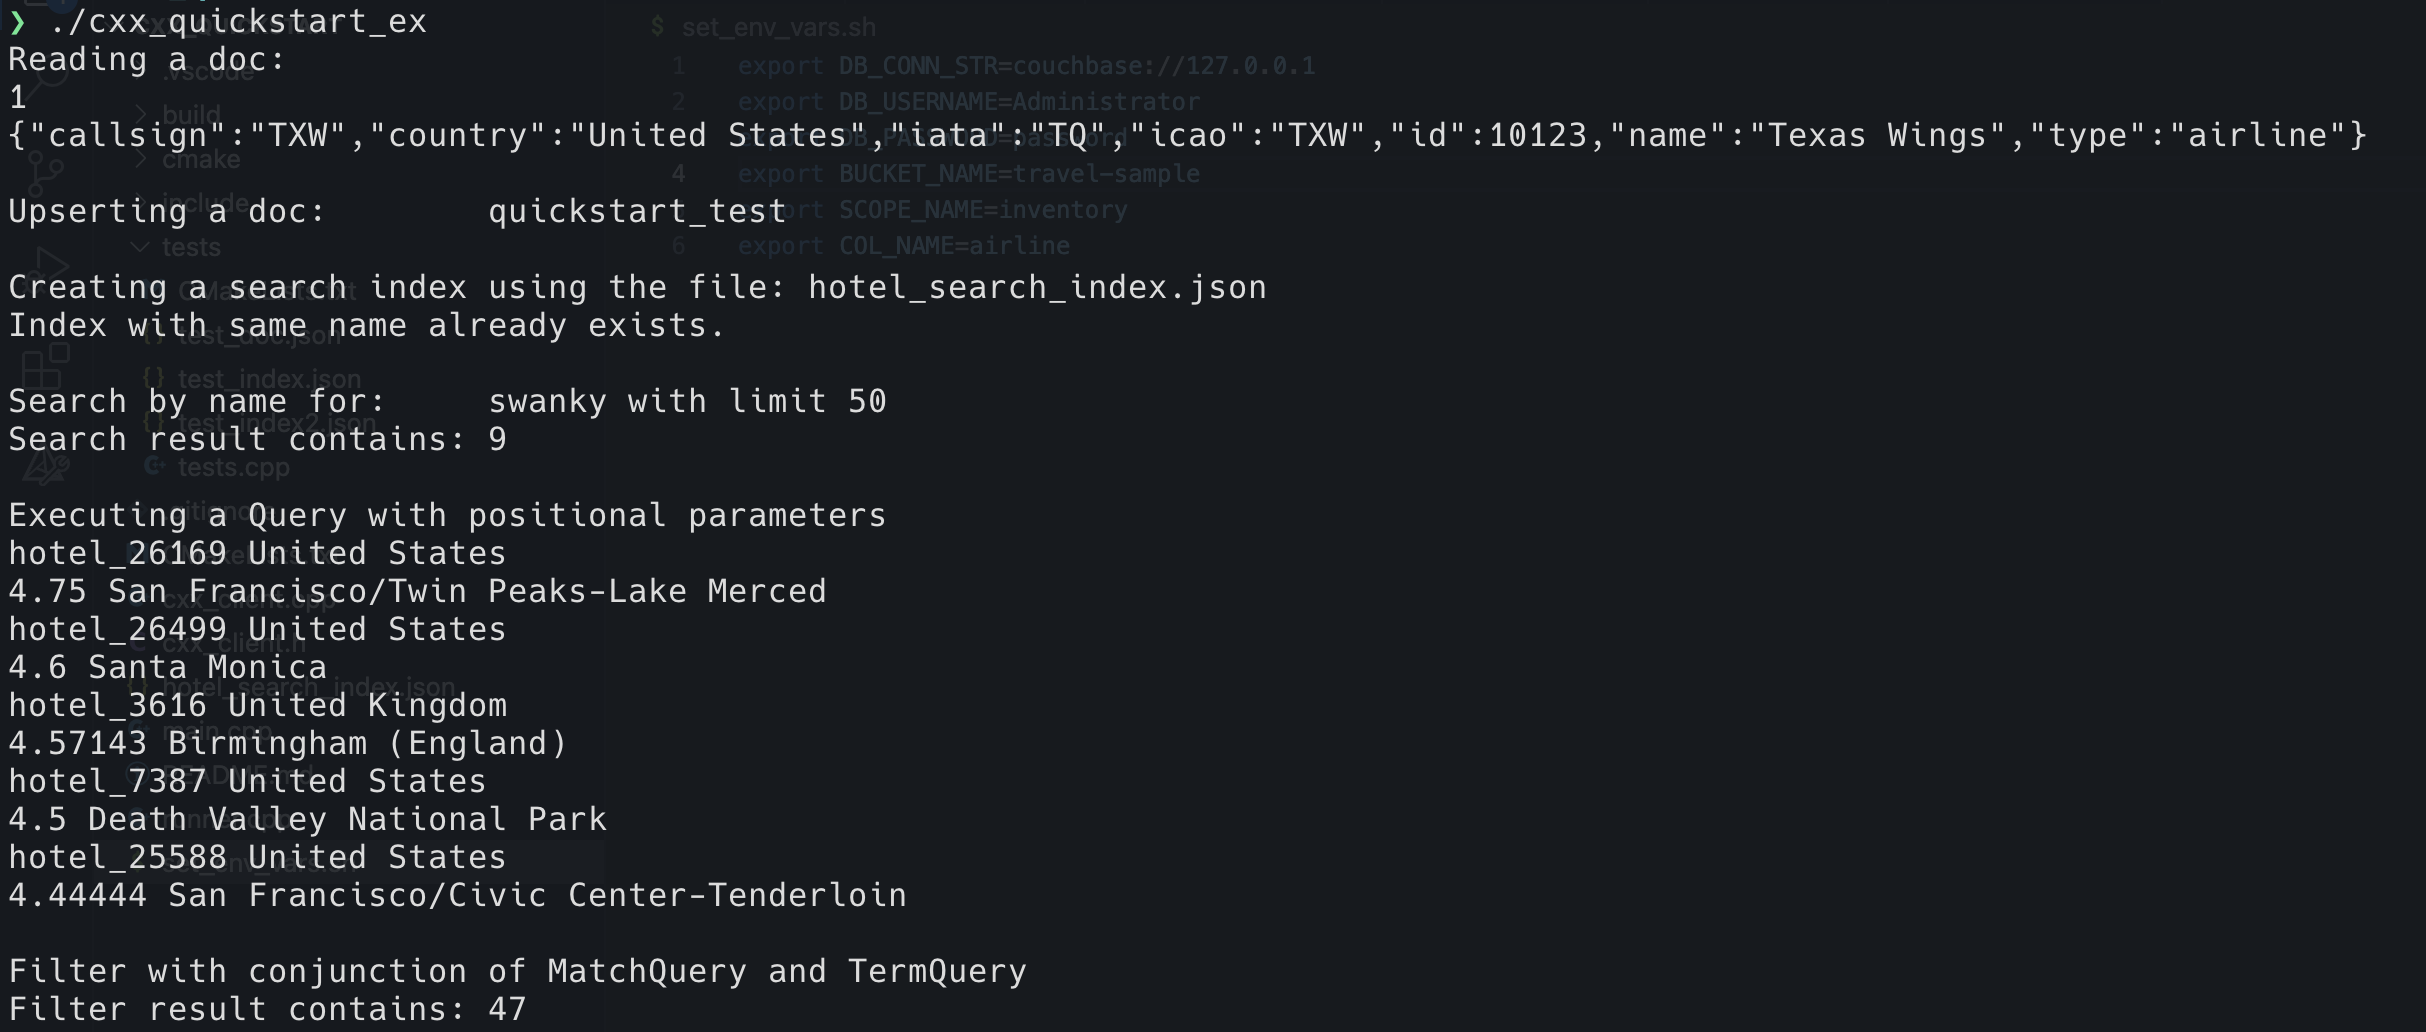
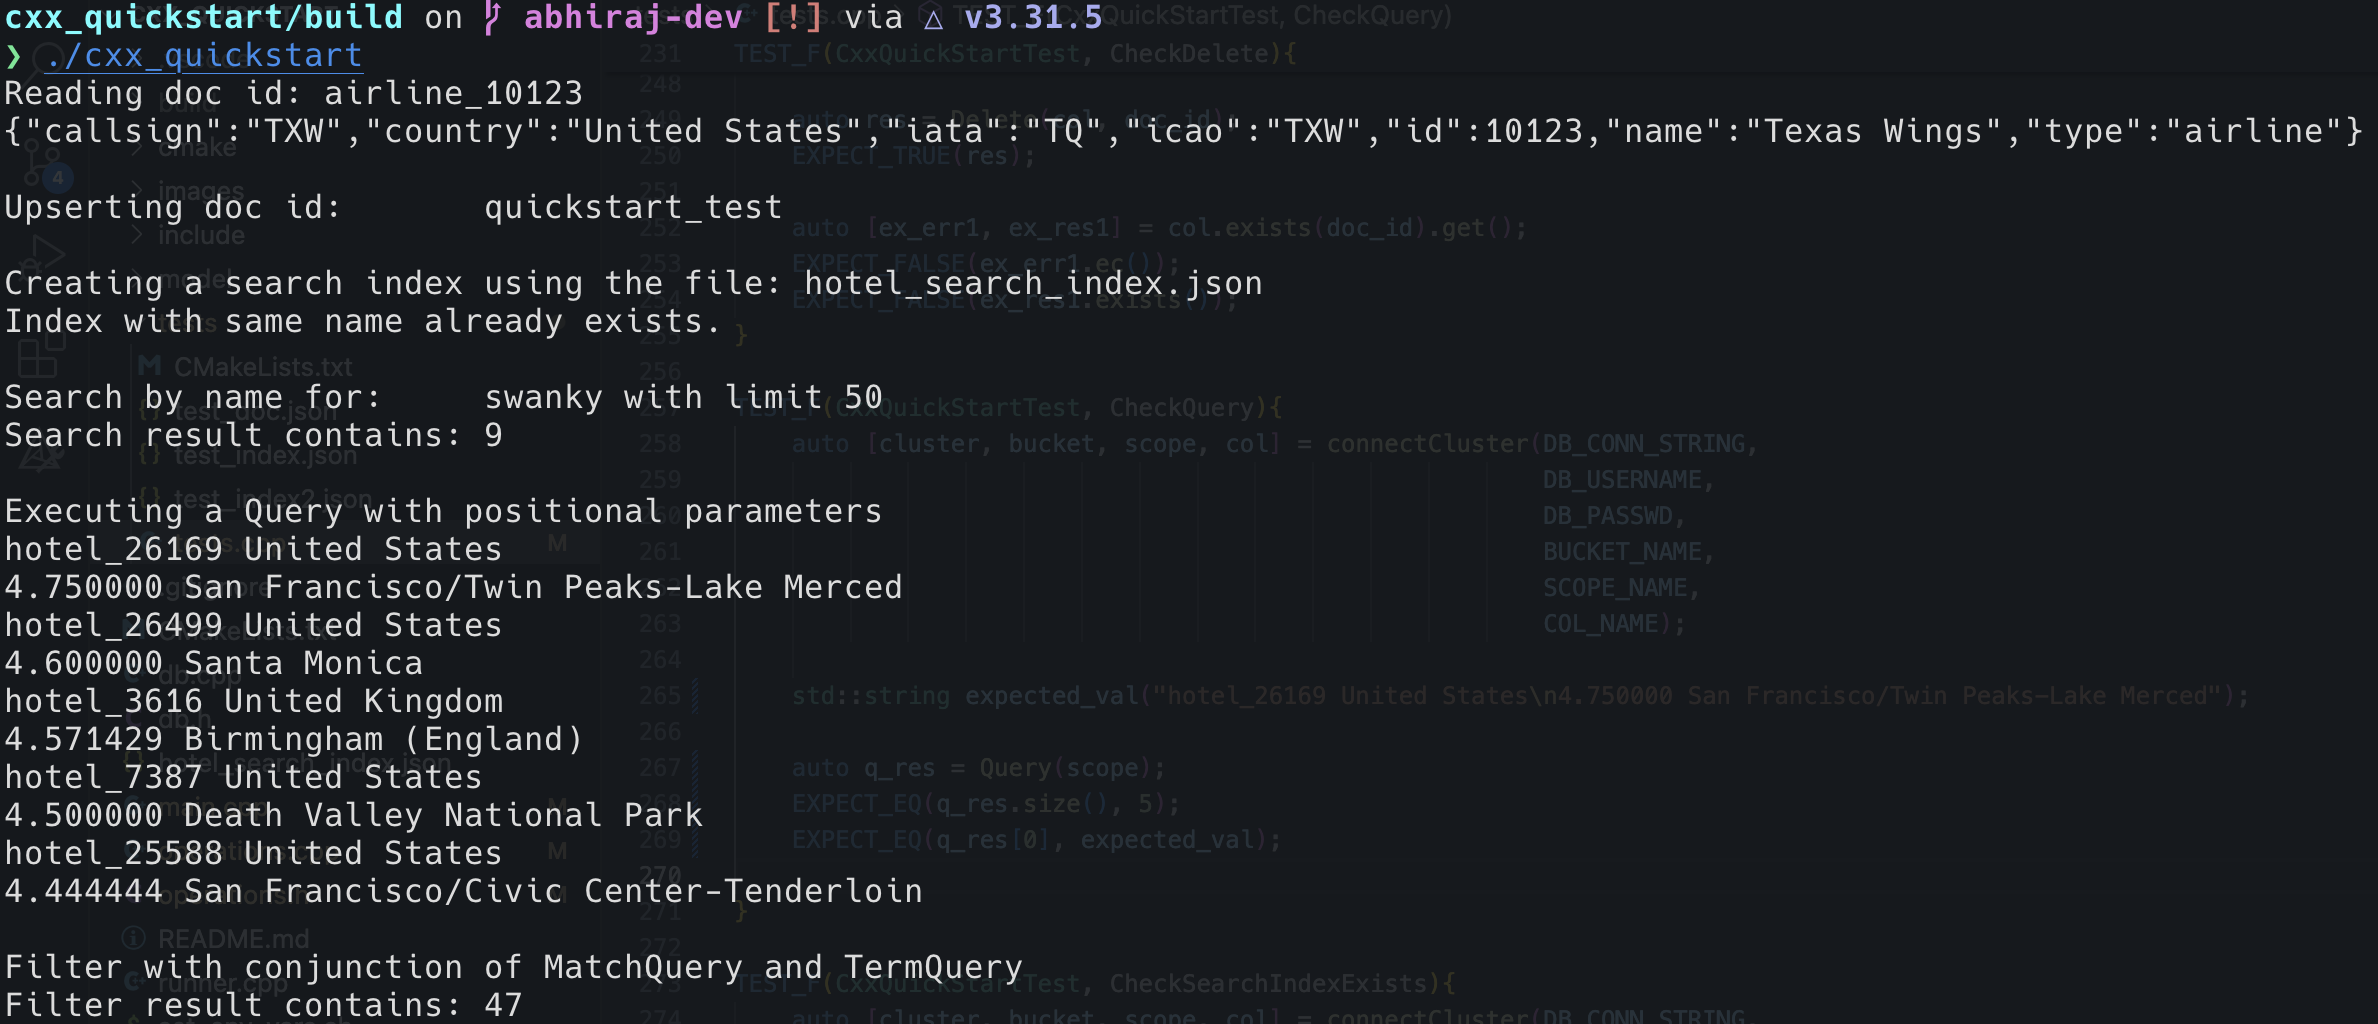
refactored for current code

diff --git a/tutorial/markdown/c++/cxx-quickstart.md b/tutorial/markdown/c++/cxx-quickstart.md
@@ -100,9 +100,10 @@ This will download and install all the dependencies required for the project to 
 At this point, we have installed the dependencies, loaded the travel-sample data and configured the application with the credentials. The application is now ready and you can run it by executing the following command from the build directory:
 
 ```sh
+cmake --build .
 ./cxx_quickstart
 ```
-
+> Note: Run this command from the build directory
 
 ### Verifying the Application
 
@@ -229,15 +230,12 @@ auto res = Delete(col, doc_id);
 ### Query
 We can use the `Query` function to execute any N1QL (SQL++) query on a scope.
 - Executes the N1QL query using the provided `scope.query(query, opts)`.
-- Returns the result of the query if successful. The result is returned as a `couchbase::query_results` object.
+- Returns the result of the query if successful. The result is added to a `std::vector<std::string>` object that contains the `id, country, avg_rating, title`.
 - We can pass `opts` parameter, which can be used to insert positonal parameters in the query.
 - If there is an error, it prints an error message and returns an empty result object.
 
 ```c++
 //operations.cpp
-auto [q_err, q_res] = scope.query(query, opts).get();
-
-//main.cpp
 std::string query{ R"(        
     SELECT META(h).id, h AS doc,
             AVG(r.ratings.Overall) AS avg_rating
@@ -248,12 +246,13 @@ std::string query{ R"(
     ORDER BY avg_rating DESC
     LIMIT 5;
 )" };
+auto [q_err, q_res] = scope.query(query, couchbase::query_options{}.positional_parameters(std::vector<std::string>{"United States", "United Kingdom"})).get();
 
-auto query_res = Query(scope, query, couchbase::query_options{}.positional_parameters(std::vector<std::string>{"United States", "United Kingdom"}));
-for (auto& row : query_res.rows_as()) {
-    std::cout  << row["id"].as<std::string>() << " " << row["doc"]["country"].as<std::string>() << std::endl;
-    std::cout << row["avg_rating"].as<double>() << " " << row["doc"]["title"].as<std::string>() <<  std::endl;
+//main.cpp
+for (auto& row : query_res) {
+  std::cout << row << std::endl;
 }
+
 ```
 
 ### Create Search Index
@@ -309,9 +308,13 @@ auto query = couchbase::conjunction_query{
 ...
 auto [err,res] = scope.search(index_name, couchbase::search_request(query), opts).get();
 
-//main.cpp
 for(auto &row:res.rows()){
-    rows_res.push_back(row.id());
+  auto fields = row.fields_as<couchbase::codec::tao_json_serializer>();
+  rows_res.push_back(fields["name"].as<std::string>());
 }
 return rows_res;
+
+//main.cpp
+auto filter_res = Filter(scope, index_name, 50, 1);
+std::cout << "Filter result contains:\t" << filter_res.size() << std::endl;
 ```
